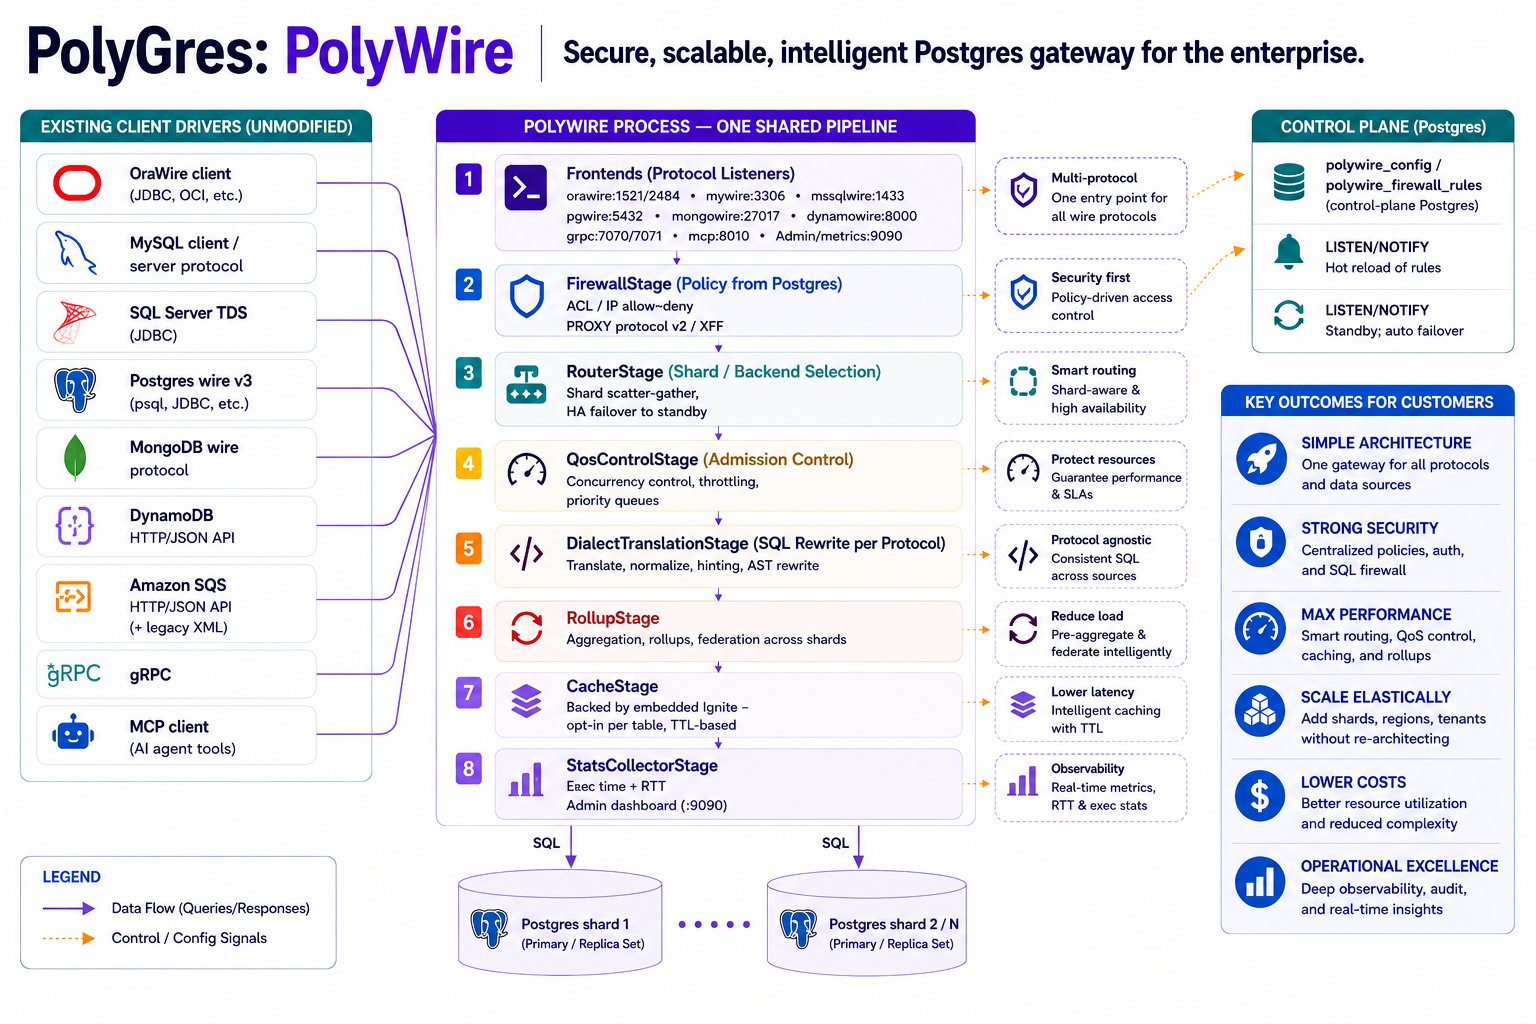
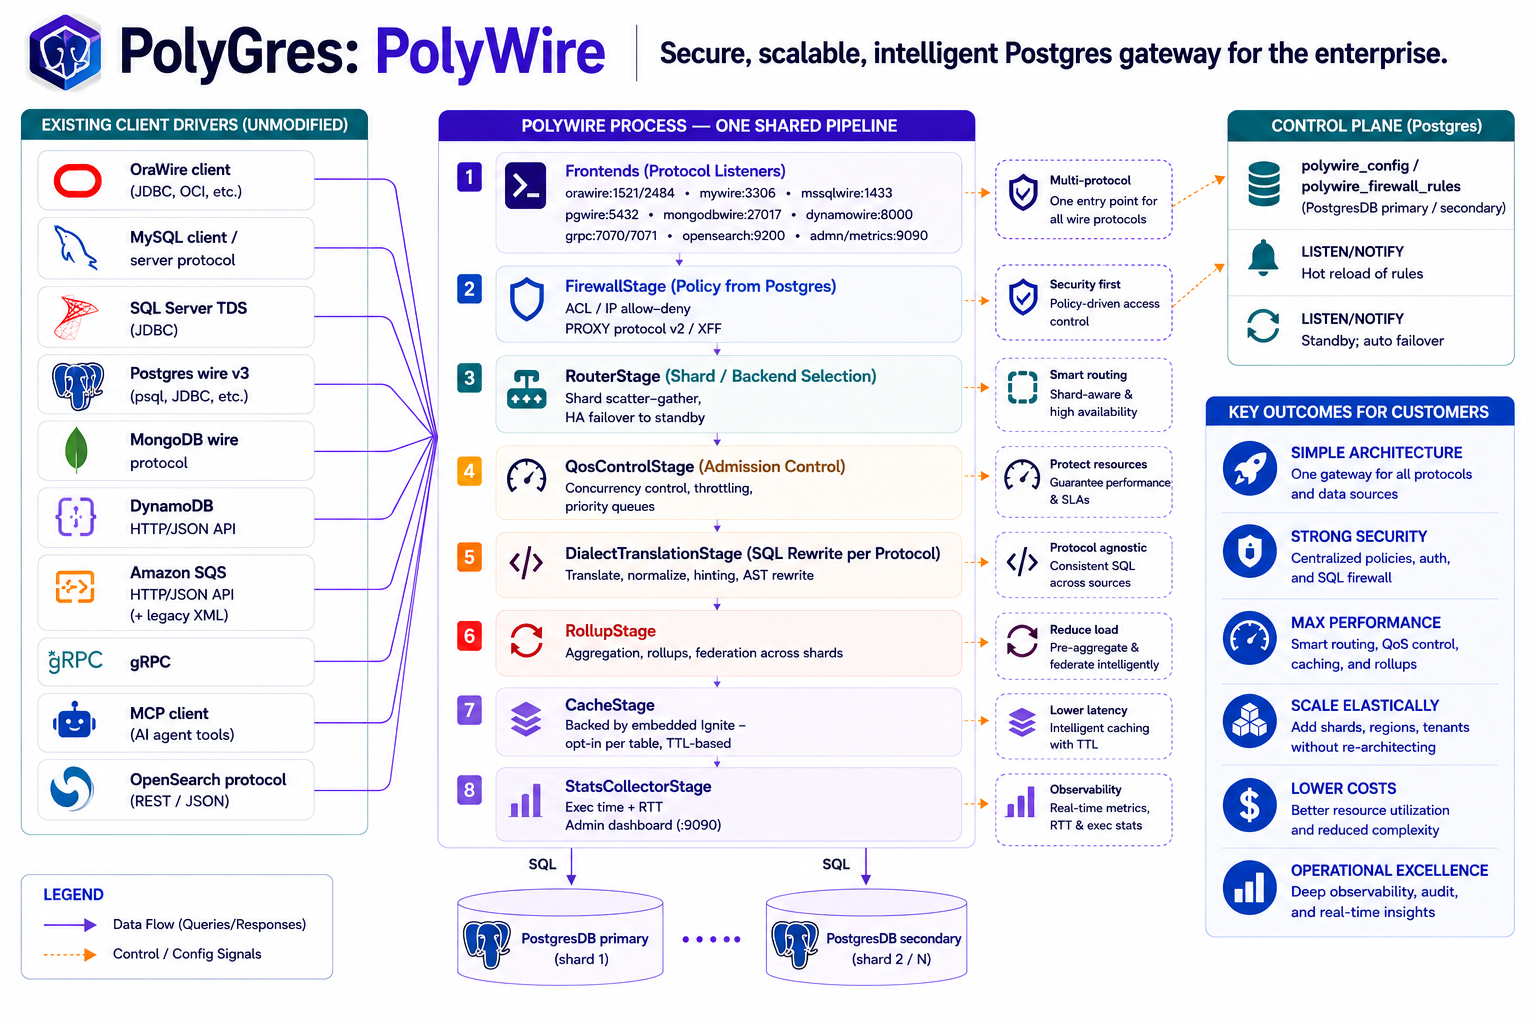
Update architecture diagram, protocol list, admin screenshot; fix text-width consistency
- Replaced docs/architecture.png with the supplied updated diagram (ten
  client protocols including OpenSearch and gRPC, the eight-stage shared
  pipeline, and the Postgres control plane) and rewrote its alt text/
  figcaption to match exactly what the new image shows instead of the
  stale "nine client protocols" description.
- Added OpenSearch to the "PolyWire speaks..." protocol list in the hero
  lede -- it was built and shipped in an earlier session but never added
  to this sentence.
- New paragraph explaining what the gRPC driver actually is: PolyWire's
  own native protocol (a thin, stateless Execute(sql, params) API for a
  client written against PolyWire directly, not emulating any other
  database), through the same shared pipeline as every other protocol.
- Refreshed docs/admin-polywire.png with a new live capture: real traffic
  through all 9 protocols (pgwire, mywire, mssqlwire, orawire, mongowire,
  dynamowire, sqswire, oswire, gRPC via grpcurl, and MCP), captured after
  the gRPC/MCP metrics-label fix and the oswire RTT-by-outcome fix in the
  companion commit, so grpc/mcp show as separate rows and oswire has real
  pg_read/pg_write samples in "RTT by outcome" for the first time.
- Text-width consistency: the use-cases and "what you get" list
  descriptions (.uc-desc/.wg-desc) had no max-width, so they stretched to
  the full ~850px content column while every other paragraph on the page
[…]

diff --git a/docker/index.html b/docker/index.html
@@ -59,7 +59,7 @@
   .usecases li::before { content: "→"; color: var(--indigo); flex: none; font-size: 14px; line-height: 1.6; }
   .usecases .uc-body { display: block; }
   .usecases .uc-title { display: block; color: var(--ink); font-weight: 600; font-size: 14.5px; margin-bottom: 4px; }
-  .usecases .uc-desc { display: block; color: var(--ink-dim); font-size: 14px; line-height: 1.6; }
+  .usecases .uc-desc { display: block; color: var(--ink-dim); font-size: 14px; line-height: 1.6; max-width: 68ch; }
 
   .runblock { background: var(--paper-raised); border: 1px solid var(--line); border-radius: 14px; padding: 22px 24px; margin: 0 0 8px; }
   .runblock p { color: var(--ink-dim); font-size: 13.5px; margin: 0 0 12px; }
@@ -85,7 +85,7 @@
   .whatyouget li::before { content: "✓"; color: var(--teal); flex: none; font-size: 14px; line-height: 1.6; }
   .whatyouget .wg-body { display: block; }
   .whatyouget .wg-title { display: block; color: var(--ink); font-weight: 600; font-size: 14.5px; margin-bottom: 4px; }
-  .whatyouget .wg-desc { display: block; color: var(--ink-dim); font-size: 14px; line-height: 1.6; }
+  .whatyouget .wg-desc { display: block; color: var(--ink-dim); font-size: 14px; line-height: 1.6; max-width: 68ch; }
 
   footer { margin-top: 56px; padding-top: 20px; border-top: 1px solid var(--line); color: var(--ink-faint); font-size: 13px; }
   footer a { color: var(--indigo); }
@@ -116,8 +116,8 @@
       <p class="lede">
         A secure, scalable, intelligent Postgres gateway for the enterprise — built for a world
         where AI agents, not just applications, need governed access to your data. PolyWire
-        speaks <b>Oracle, MySQL, SQL Server, Postgres, MongoDB, DynamoDB, Amazon SQS, gRPC, and
-        MCP</b> on one side, and real Postgres on the other, with a SQL firewall, ACL, QoS
+        speaks <b>Oracle, MySQL, SQL Server, Postgres, MongoDB, DynamoDB, Amazon SQS, OpenSearch,
+        gRPC, and MCP</b> on one side, and real Postgres on the other, with a SQL firewall, ACL, QoS
         admission control, and live observability in front of every one of them. Migration
         compatibility is one use case among several — not the whole story.
       </p>
@@ -148,8 +148,8 @@
 
       <h3 class="subhead">Admin console</h3>
       <figure>
-        <img src="docs/admin-polywire.png" alt="PolyWire's admin console: a Metrics dashboard showing live protocol traffic across eight wire protocols, reads/writes per second, top SQL by cost, per-tool MCP call counts and error rates, and a cache-hit-vs-Postgres RTT breakdown, with a sidebar for Topology, SQL Firewall, ACL, OAuth, Backends, Queues, Data Explorer, Router Rules, QoS, and LLM Configuration">
-        <figcaption>PolyWire ships its own admin app — live traffic metrics across every protocol, per-tool MCP call counts and error rates, cache-hit-vs-Postgres RTT, deployment topology, SQL firewall rules, ACL, backends, queues, and LLM configuration for dialect translation, all in one place.</figcaption>
+        <img src="docs/admin-polywire.png" alt="PolyWire's admin console: a Metrics dashboard showing live protocol traffic across all nine protocols including gRPC and OpenSearch shown as their own distinct rows, reads/writes per second, top SQL by cost, per-tool MCP call counts and error rates, and a cache-hit-vs-Postgres RTT breakdown covering every protocol including OpenSearch, with a sidebar for Topology, SQL Firewall, ACL, OAuth, Backends, Queues, Data Explorer, Router Rules, QoS, and LLM Configuration">
+        <figcaption>PolyWire ships its own admin app — live traffic metrics across every protocol (gRPC and MCP shown separately, not merged into one label), per-tool MCP call counts and error rates, cache-hit-vs-Postgres RTT for every protocol including OpenSearch, deployment topology, SQL firewall rules, ACL, backends, queues, and LLM configuration for dialect translation, all in one place.</figcaption>
       </figure>
 
       <h3 class="subhead">Cache hit vs. Postgres round trip, per protocol</h3>
@@ -326,9 +326,19 @@
 
       <h3 class="subhead">Architecture</h3>
       <figure>
-        <img src="docs/architecture.png" alt="PolyWire architecture: nine client protocols feed a shared eight-stage pipeline, each paired with the customer outcome it drives, backed by a Postgres control plane, executing against horizontally-sharded Postgres backends">
-        <figcaption>Every wire protocol feeds the same shared pipeline — firewall, router, QoS, dialect translation, rollup, cache, stats — before reaching real Postgres.</figcaption>
+        <img src="docs/architecture.png" alt="PolyWire architecture: ten client protocols — OraWire, MySQL, SQL Server, Postgres wire, MongoDB, DynamoDB, Amazon SQS, gRPC, MCP, and OpenSearch — feed one shared eight-stage pipeline (frontends, firewall, router, QoS, dialect translation, rollup, cache, stats), each stage paired with the customer outcome it drives, backed by a Postgres control plane (polywire_config/polywire_firewall_rules with hot-reload and standby failover via LISTEN/NOTIFY), executing against a primary Postgres and any number of additional shards">
+        <figcaption>Every wire protocol feeds the same shared pipeline — firewall, router, QoS, dialect translation, rollup, cache, stats — before reaching real Postgres. Client drivers are unmodified: each one talks the real wire protocol it always has, unaware PolyWire (not the database it thinks it's talking to) is on the other end.</figcaption>
       </figure>
+      <p class="rttNote">
+        <b>What gRPC is, on this diagram:</b> the one protocol here that isn't emulating a
+        foreign database — it's PolyWire's own native driver protocol, a thin, stateless
+        request/response API (one <code>Execute(sql, params)</code> call in, one result back, no
+        session handshake to maintain) for a client written specifically against PolyWire rather
+        than against Postgres, MySQL, or any of the others. It runs through the exact same shared
+        pipeline as every emulated protocol — same firewall, same QoS, same metrics — so choosing
+        it over pgwire buys a simpler client integration, not a separate, less-governed path to
+        your data.
+      </p>
 
       <h3 class="subhead">Multi-AZ deployment</h3>
       <figure>
